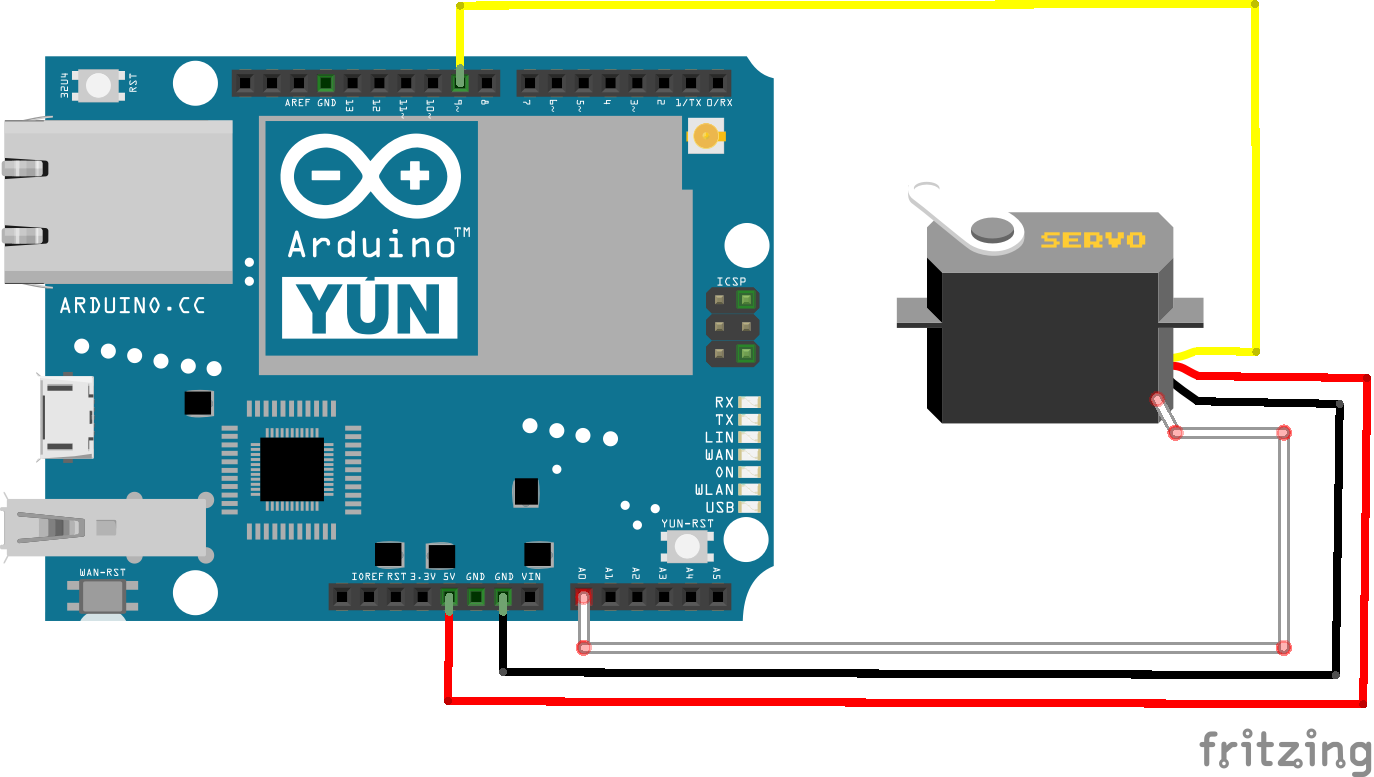
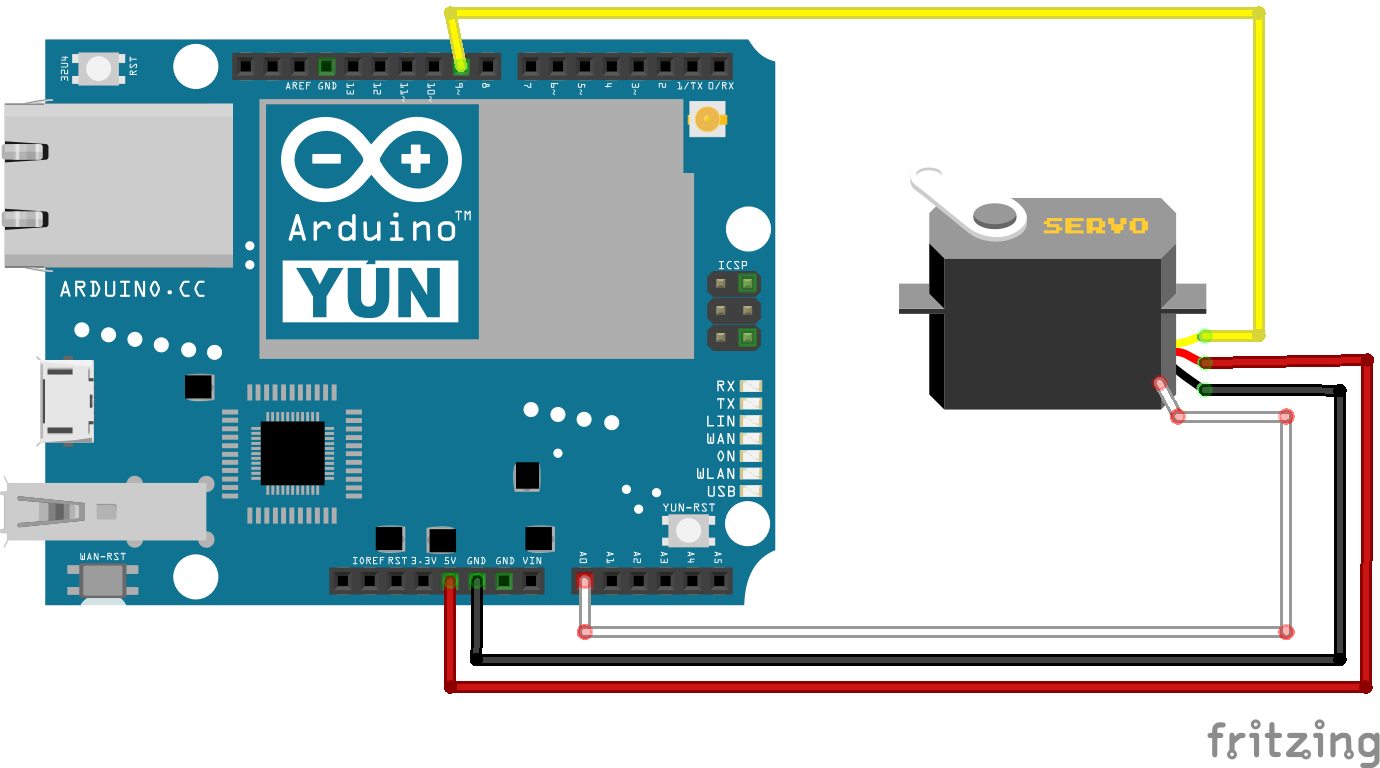
update wiring diagram

diff --git a/README.md b/README.md
@@ -68,7 +68,12 @@ The app was made using Android Studio and is fairly standard.
   - **You'll need to update the key and iv in arduino.ino. See the TODOs.**
   - Connect your Yun to your PC and upload the sketch.
   - Wiring diagram:
-  [[wiring_diagram.png]]
+  ![wiring diagram](https://github.com/danvolchek/door-unlocker/blob/master/wiring_diagram.png)
+    - In the diagram:
+      - the servo ground should go to the ground of the Yun.
+      - the servo Vin should go to the 5v out of the Yun.
+      - the servo signal should go to digital pin 9 out of the Yun.
+      - the servo feedback should go to analog pin 0 out of the Yun.
 ### Overview
 This is the the code for the Arduino which:
   - Listens for lock/unlock commands and decrypts them
